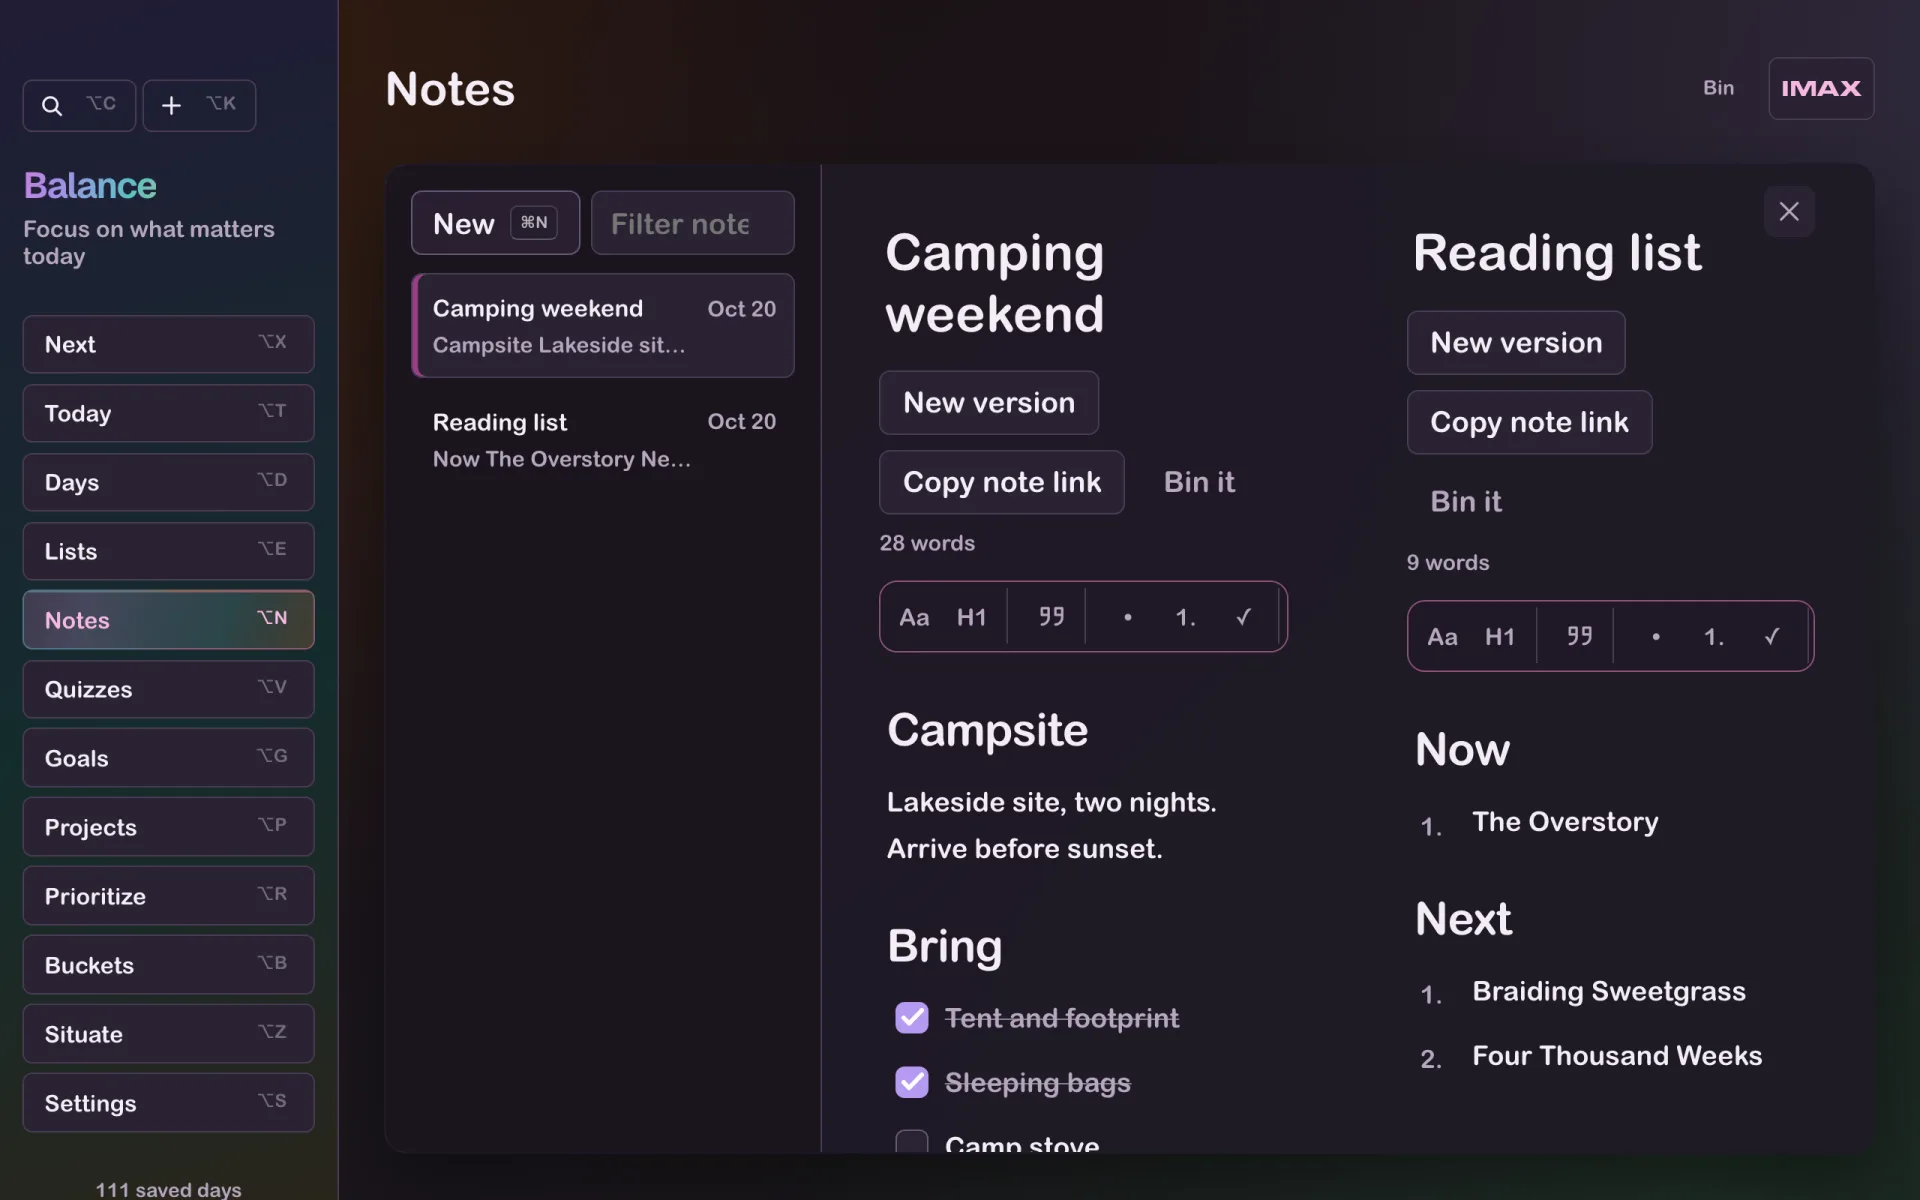
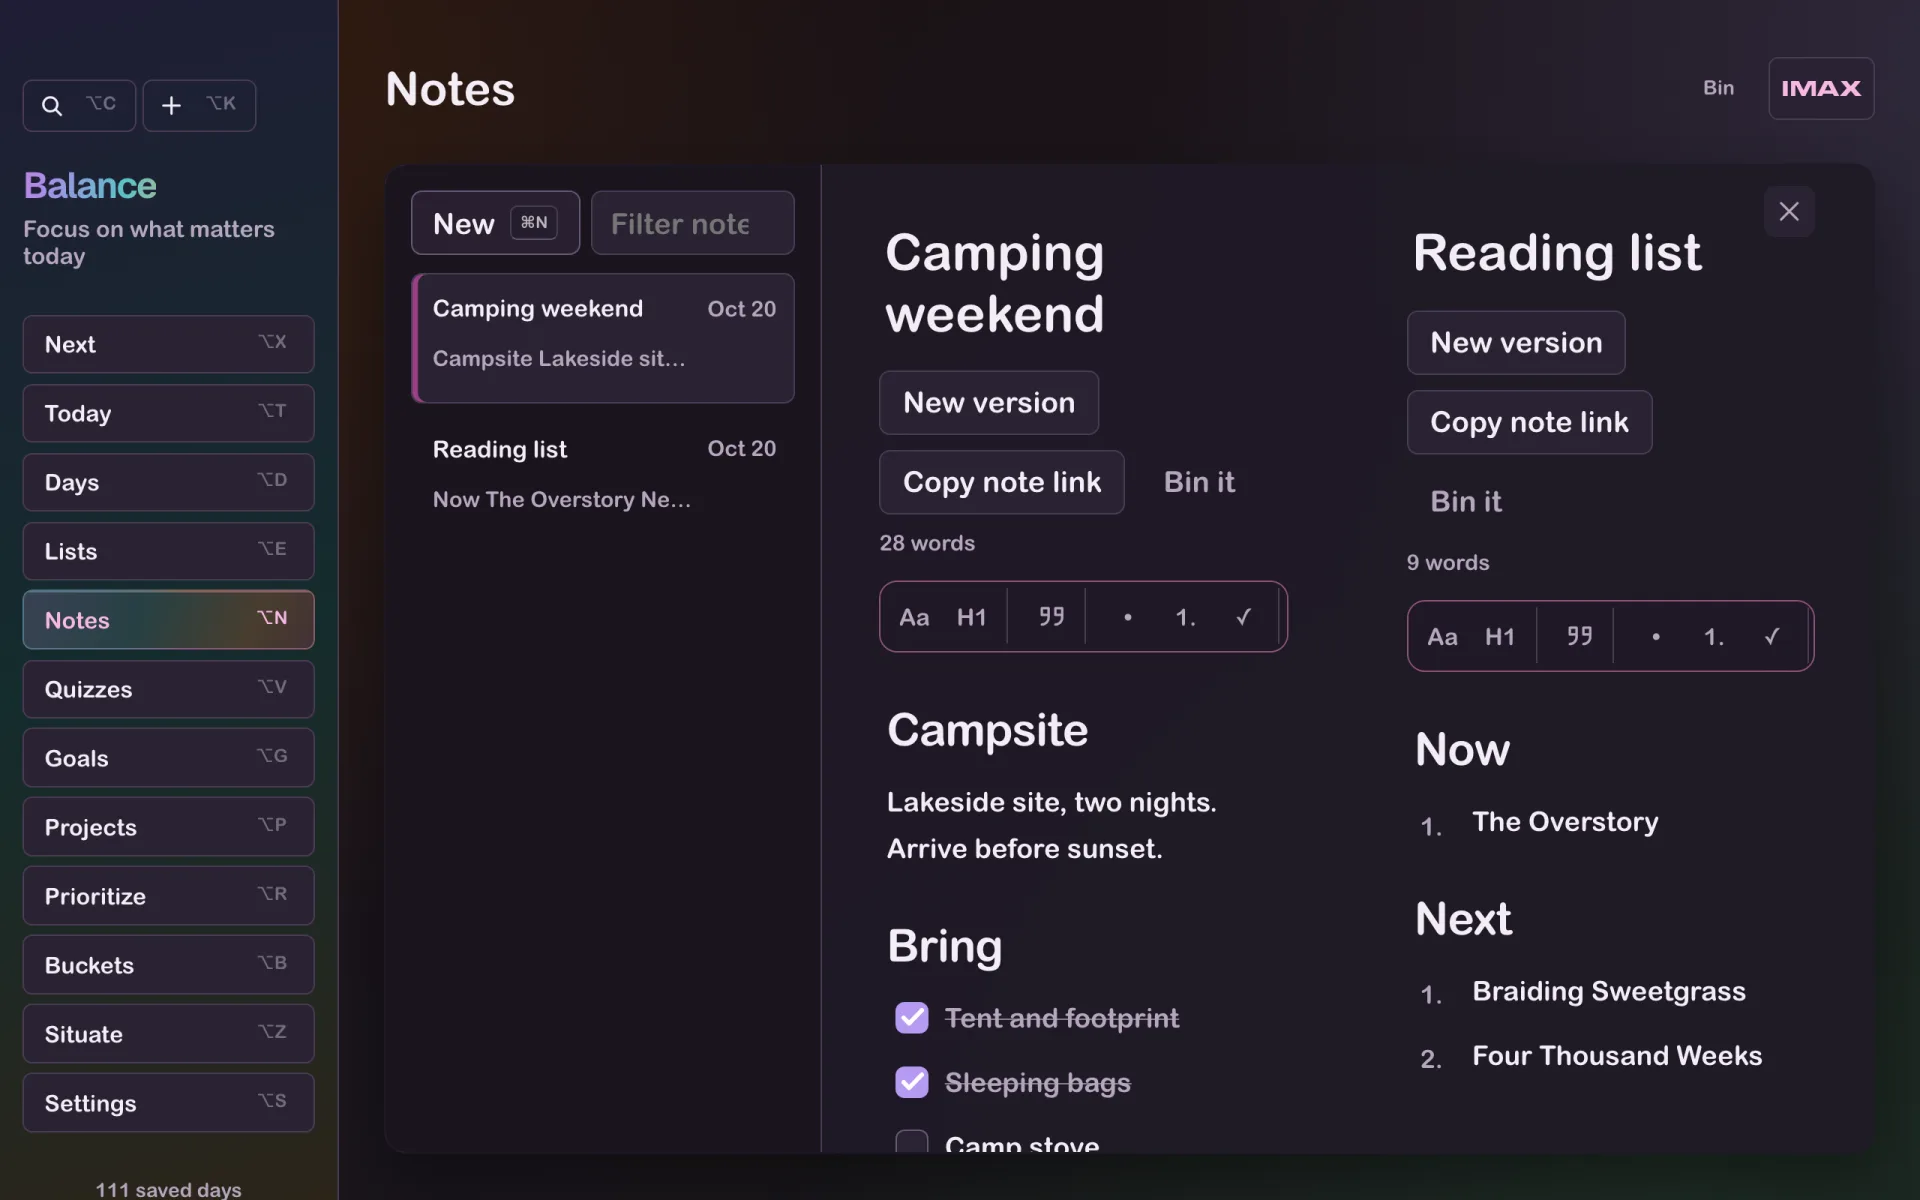
Keep the note split control clear of its date

Changed region(s): [[0.1875, 0.2775, 0.4062, 0.4317], [0.125, 0.4933, 0.1562, 0.5242]]

diff --git a/tests/visual/notes-side-by-side.spec.ts b/tests/visual/notes-side-by-side.spec.ts
@@ -20,7 +20,16 @@ test('notes open and edit independently beside each other, including in IMAX', a
   await expect(open).toHaveCSS('opacity', '0')
   await card.hover()
   await expect(open).toHaveCSS('opacity', '1')
+  async function expectSplitBelowDate() {
+    const dateBounds = await card.locator('time').boundingBox()
+    const splitBounds = await open.boundingBox()
+    expect(dateBounds).not.toBeNull()
+    expect(splitBounds).not.toBeNull()
+    expect(splitBounds!.y).toBeGreaterThan(dateBounds!.y + dateBounds!.height)
+  }
+  await expectSplitBelowDate()
   await open.click()
+  await expectSplitBelowDate()
   await expect(main.getByRole('textbox', { name: 'Note title', exact: true })).toHaveValue('Draft')
   await expect(right.getByRole('textbox', { name: 'Note title', exact: true })).toHaveValue('Reference')
   await right.getByRole('textbox', { name: 'Note title', exact: true }).fill('Reference edited')

diff --git a/src/app.css b/src/app.css
@@ -6508,6 +6508,13 @@ body.mobile-checkbox-dragging {
   right: 0;
 }
 
+@media (min-width: 761px) {
+  /* Keep a separate space below the date even for a one-line, empty note. */
+  .note-card-row:has(.note-open-beside) .note-card {
+    min-height: 72px;
+  }
+}
+
 @media (max-width: 760px) {
   .note-open-beside,
   .notes-side-pane {
